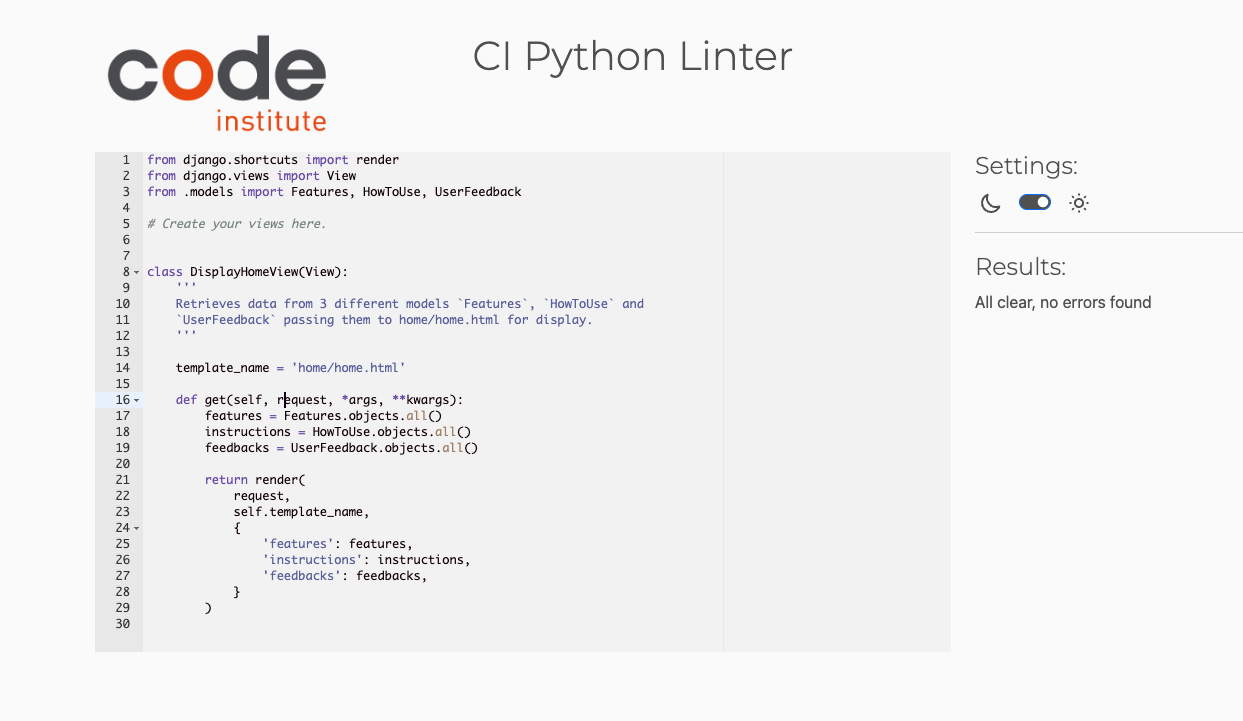
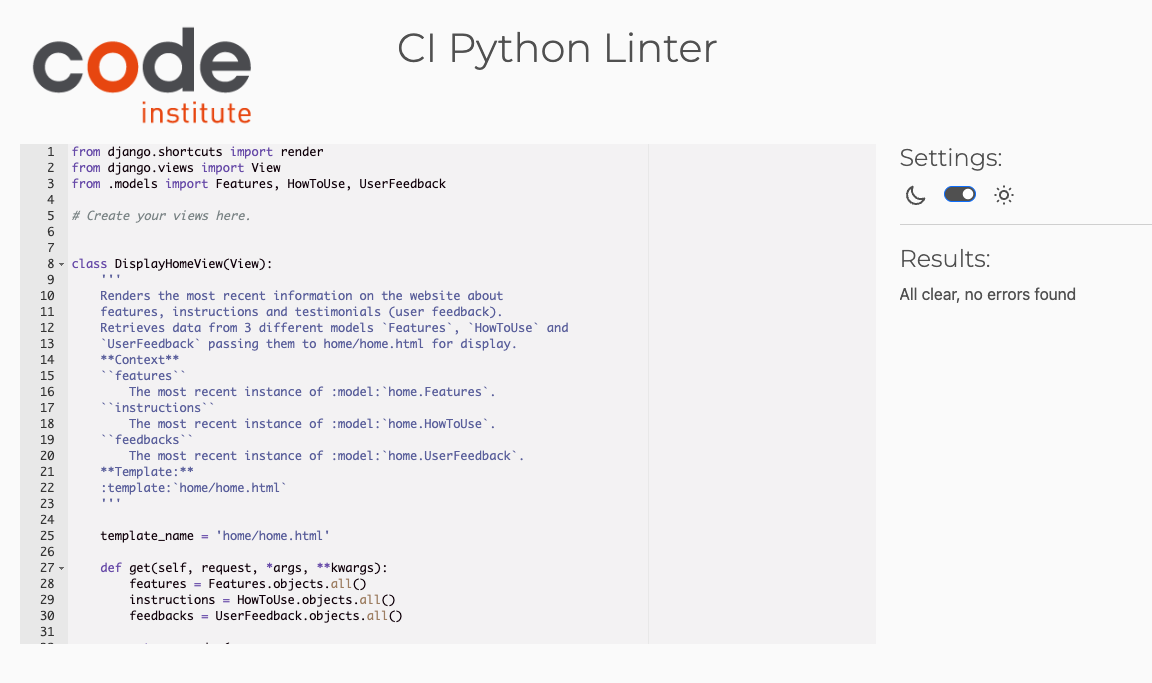
Refactor: update django models and views for the apps to standard documentation

diff --git a/tasks/views.py b/tasks/views.py
@@ -11,12 +11,18 @@ from .forms import TaskForm, CategoryForm
 
 def display_tasks(request):
     '''
-    Uses method .date() to pass date without HH:MM to run
-    taks expired feature on front end.
-    Displays list of tasks associated with logged-in user.
-    Gets all tasks associated with logged-in user and renders
-    template displaying all tasks.
-    If user not logged-in, redirects user to home.html.
+    Displays a list of tasks associated with the logged-in user.
+    Retrieves tasks for the logged-in user and renders the template
+    displaying all tasks.
+    **Context:**
+    ``tasks``
+        A queryset of tasks associated with the logged-in user. Each task is an
+        instance of :model:`tasks.Task`.
+    ``now``
+        The current date without the time component (HH:MM), used for front-end
+        tasks expired feature.
+    **Template:**
+    :template:`tasks/task.html`
     '''
 
     now = timezone.now()
@@ -39,10 +45,15 @@ def display_tasks(request):
 
 def create_task(request):
     '''
-    Creates new tasks alongside TaskForm. Renders form to
-    create new task (GET) and process submitted form with
-    data to create task (POST). After submission, redirects
-    to task.
+    Creates a new task using the TaskForm. Renders the form to
+    create a new task (GET) and processes the submitted form data
+    to create the task (POST). After submission, redirects to the
+    tasks page.
+    **Context:**
+    ``form``
+        An instance of :class:`tasks.forms.TaskForm` for creating a new task.
+    **Template:**
+    :template:`tasks/task_form.html`
     '''
 
     if request.method == 'POST':
@@ -65,12 +76,22 @@ def create_task(request):
 
 def edit_task(request, task_id):
     '''
-    Edits current tasks working with TaskForm. Checks if object exists and
-    if logged-in user is owner of task (to prevent error when user enters
-    object ID manually on url) displaying alert messages and redirecting to
-    task.
-    Then renders TaskForm (GET) and process submitted form data to update
-    task in DB (POST). After submission, redirects to tasks.html.
+    Edits an existing task using the TaskForm. Checks if the task exists
+    and if the logged-in user is the owner of the task (to prevent errors
+    when the user manually enters the object ID in the URL).
+    If the task does not exist or the user is not the owner, displays an
+    alert message and redirects to the tasks page.
+    Then renders the TaskForm (GET) and processes submitted form data to
+    update the task in the database (POST). After submission, redirects to
+    the tasks page.
+    **Parameters:**
+    ``task_id``
+        The ID of the task to be edited.
+    **Context:**
+    ``form``
+        An instance of :class:`tasks.forms.TaskForm` for editing the task.
+    **Template:**
+    :template:`tasks/task_form.html`
     '''
 
     try:
@@ -106,9 +127,17 @@ def edit_task(request, task_id):
 
 def complete_task(request, task_id):
     '''
-    Marks task as 'Complete' by user. Gets task ID, confirm user,
-    changes its complete field to True and saves on DB. Then
-    redirects to tasks.html.
+    Marks a task as 'Complete' by the user. Retrieves the task with the given
+    ID, confirms that the user is the owner of the task, sets its `completed`
+    field to True, and saves it in the database.
+    **Parameters:**
+    ``task_id``
+        The ID of the task to be marked as complete.
+    **Context:**
+    ``task``
+        The task instance with the given ID, marked as complete.
+    **Template:**
+    :template:`tasks/task.html`
     '''
 
     task = Task.objects.get(id=task_id)
@@ -124,9 +153,17 @@ def complete_task(request, task_id):
 
 def undo_complete_task(request, task_id):
     '''
-    Marks task as 'Uncomplete' (undo complete) by user. Gets task ID,
-    confirm user, changes its complete field to False and saves on DB.
-    Then redirects to tasks.html.
+    Marks a task as 'Uncomplete' (undo complete) by the user. Retrieves the
+    task with the given ID, confirms that the user is the owner of the task,
+    sets its `completed` field to False, and saves it in the database.
+    **Parameters:**
+    ``task_id``
+        The ID of the task to be marked as uncomplete.
+    **Context:**
+    ``task``
+        The task instance with the given ID, marked as uncomplete.
+    **Template:**
+    :template:`tasks/task.html`
     '''
 
     task = Task.objects.get(id=task_id)
@@ -142,8 +179,16 @@ def undo_complete_task(request, task_id):
 
 def delete_task(request, task_id):
     '''
-    Deletes existing task. Gets task ID, deletes it from
-    DB and redirects to tasks.html.
+    Deletes an existing task. Retrieves the task with the given ID,
+    confirms that the user is the owner of the task, deletes it from
+    the database, and redirects to the tasks page.
+    **Parameters:**
+    ``task_id``
+        The ID of the task to be deleted.
+    **Context:**
+    None.
+    **Template:**
+    :template:`tasks/task.html`
     '''
 
     task = Task.objects.get(id=task_id)
@@ -157,9 +202,17 @@ def delete_task(request, task_id):
 
 def display_categories(request):
     '''
-    Displays list of categories associated with logged-in user.
-    Gets all categories associated with logged-in user and renders
-    template displaying all categories.
+    Displays a list of categories associated with the logged-in user.
+    Retrieves all categories associated with the logged-in user, including
+    the count of tasks for each category, and renders the template displaying
+    all categories.
+    **Context:**
+    ``categories``
+        A queryset of categories associated with the logged-in user.
+        Each category includes an additional field ``task_count`` representing
+        the count of tasks for that category.
+    **Template:**
+    :template:`tasks/category.html`
     '''
 
     if not request.user.is_authenticated:
@@ -182,13 +235,28 @@ def display_categories(request):
 def category_detail(request, category_id):
     '''
     Uses method .date() to pass date without HH:MM to run
-    taks expired feature on front end.
-    Displays details of a category associated with logged-in user.
-    Checks if category ID and associated tasks exists and if they
-    belong to logged-in user (to prevent error when user enters category
-    object ID manually on url) displaying alert message and redirecting to
-    category-list.
-    Then renders category_detail template with associated tasks.
+    tasks expired feature on the front end.
+    Displays details of a category associated with the logged-in user.
+    Checks if the category ID and associated tasks exist and if they
+    belong to the logged-in user (to prevent an error when the user enters
+    the category object ID manually in the URL), displaying an alert message
+    and redirecting to the category list.
+    Then renders the category_detail template with associated tasks.
+    **Parameters:**
+    ``category_id``
+        The ID of the category to be displayed in detail.
+    **Context:**
+    ``category``
+        The category instance with the given ID.
+    ``tasks``
+        A queryset of tasks associated with the specified category.
+    ``task_count``
+        The count of tasks associated with the specified category.
+    ``now``
+        The current date without the time component (HH:MM), used for the
+        front-end tasks expired feature.
+    **Template:**
+    :template:`tasks/category_detail.html`
     '''
 
     now = timezone.now()
@@ -220,10 +288,18 @@ def category_detail(request, category_id):
 
 def create_category(request):
     '''
-    Creates new categories alongside CategoryForm. Renders form to
-    create new category (GET) and process submitted form with
-    data to create category (POST). After submission, redirects
+    Creates new categories alongside the CategoryForm. Renders the form to
+    create a new category (GET) and processes the submitted form with
+    data to create a category (POST). After submission, redirects
     to display_categories.
+    **Context:**
+    ``form``
+        An instance of :class:`tasks.forms.CategoryForm` for creating a new
+        category.
+    **Redirects:**
+    :url:`categories`
+    **Template:**
+    :template:`tasks/category_form.html`
     '''
 
     if request.method == 'POST':
@@ -247,12 +323,22 @@ def create_category(request):
 
 def edit_category(request, category_id):
     '''
-    Edits current categories working with CategoryForm. Checks if object
-    exists and if logged-in user is owner of category (to prevent error when
-    user enters object ID manually on url) displaying alert messages and
-    redirects to display_categories.
-    Then renders CategoryForm (GET) and process submitted form data to update
-    category in DB (POST). After submission, redirects to display_categories.
+    Edits current categories working with the CategoryForm. Checks if the
+    object exists and if the logged-in user is the owner of the category (to
+    prevent an error when the user enters the object ID manually in the URL),
+    displaying alert messages and redirecting to display_categories.
+    Then renders the CategoryForm (GET) and processes submitted form data to
+    update the category in the database (POST). After submission, redirects to
+    display_categories.
+    **Parameters:**
+    ``category_id``
+        The ID of the category to be edited.
+    **Context:**
+    ``form``
+        An instance of :class:`tasks.forms.CategoryForm` for editing the
+        category.
+    **Template:**
+    :template:`tasks/category_form.html`
     '''
 
     try:
@@ -287,8 +373,14 @@ def edit_category(request, category_id):
 
 def delete_category(request, category_id):
     '''
-    Deletes existing category. Gets category ID, deletes it from DB and
-    redirects to display_categories.
+    Deletes an existing category. Retrieves the category with the given ID,
+    confirms that the user is the owner of the category, deletes it from
+    the database, and redirects to display_categories.
+    **Parameters:**
+    ``category_id``
+        The ID of the category to be deleted.
+    **Template:**
+    :template:`tasks/category.html`
     '''
 
     category = Category.objects.get(id=category_id)

diff --git a/home/views.py b/home/views.py
@@ -7,8 +7,19 @@ from .models import Features, HowToUse, UserFeedback
 
 class DisplayHomeView(View):
     '''
+    Renders the most recent information on the website about
+    features, instructions and testimonials (user feedback).
     Retrieves data from 3 different models `Features`, `HowToUse` and
     `UserFeedback` passing them to home/home.html for display.
+    **Context**
+    ``features``
+        The most recent instance of :model:`home.Features`.
+    ``instructions``
+        The most recent instance of :model:`home.HowToUse`.
+    ``feedbacks``
+        The most recent instance of :model:`home.UserFeedback`.
+    **Template:**
+    :template:`home/home.html`
     '''
 
     template_name = 'home/home.html'
